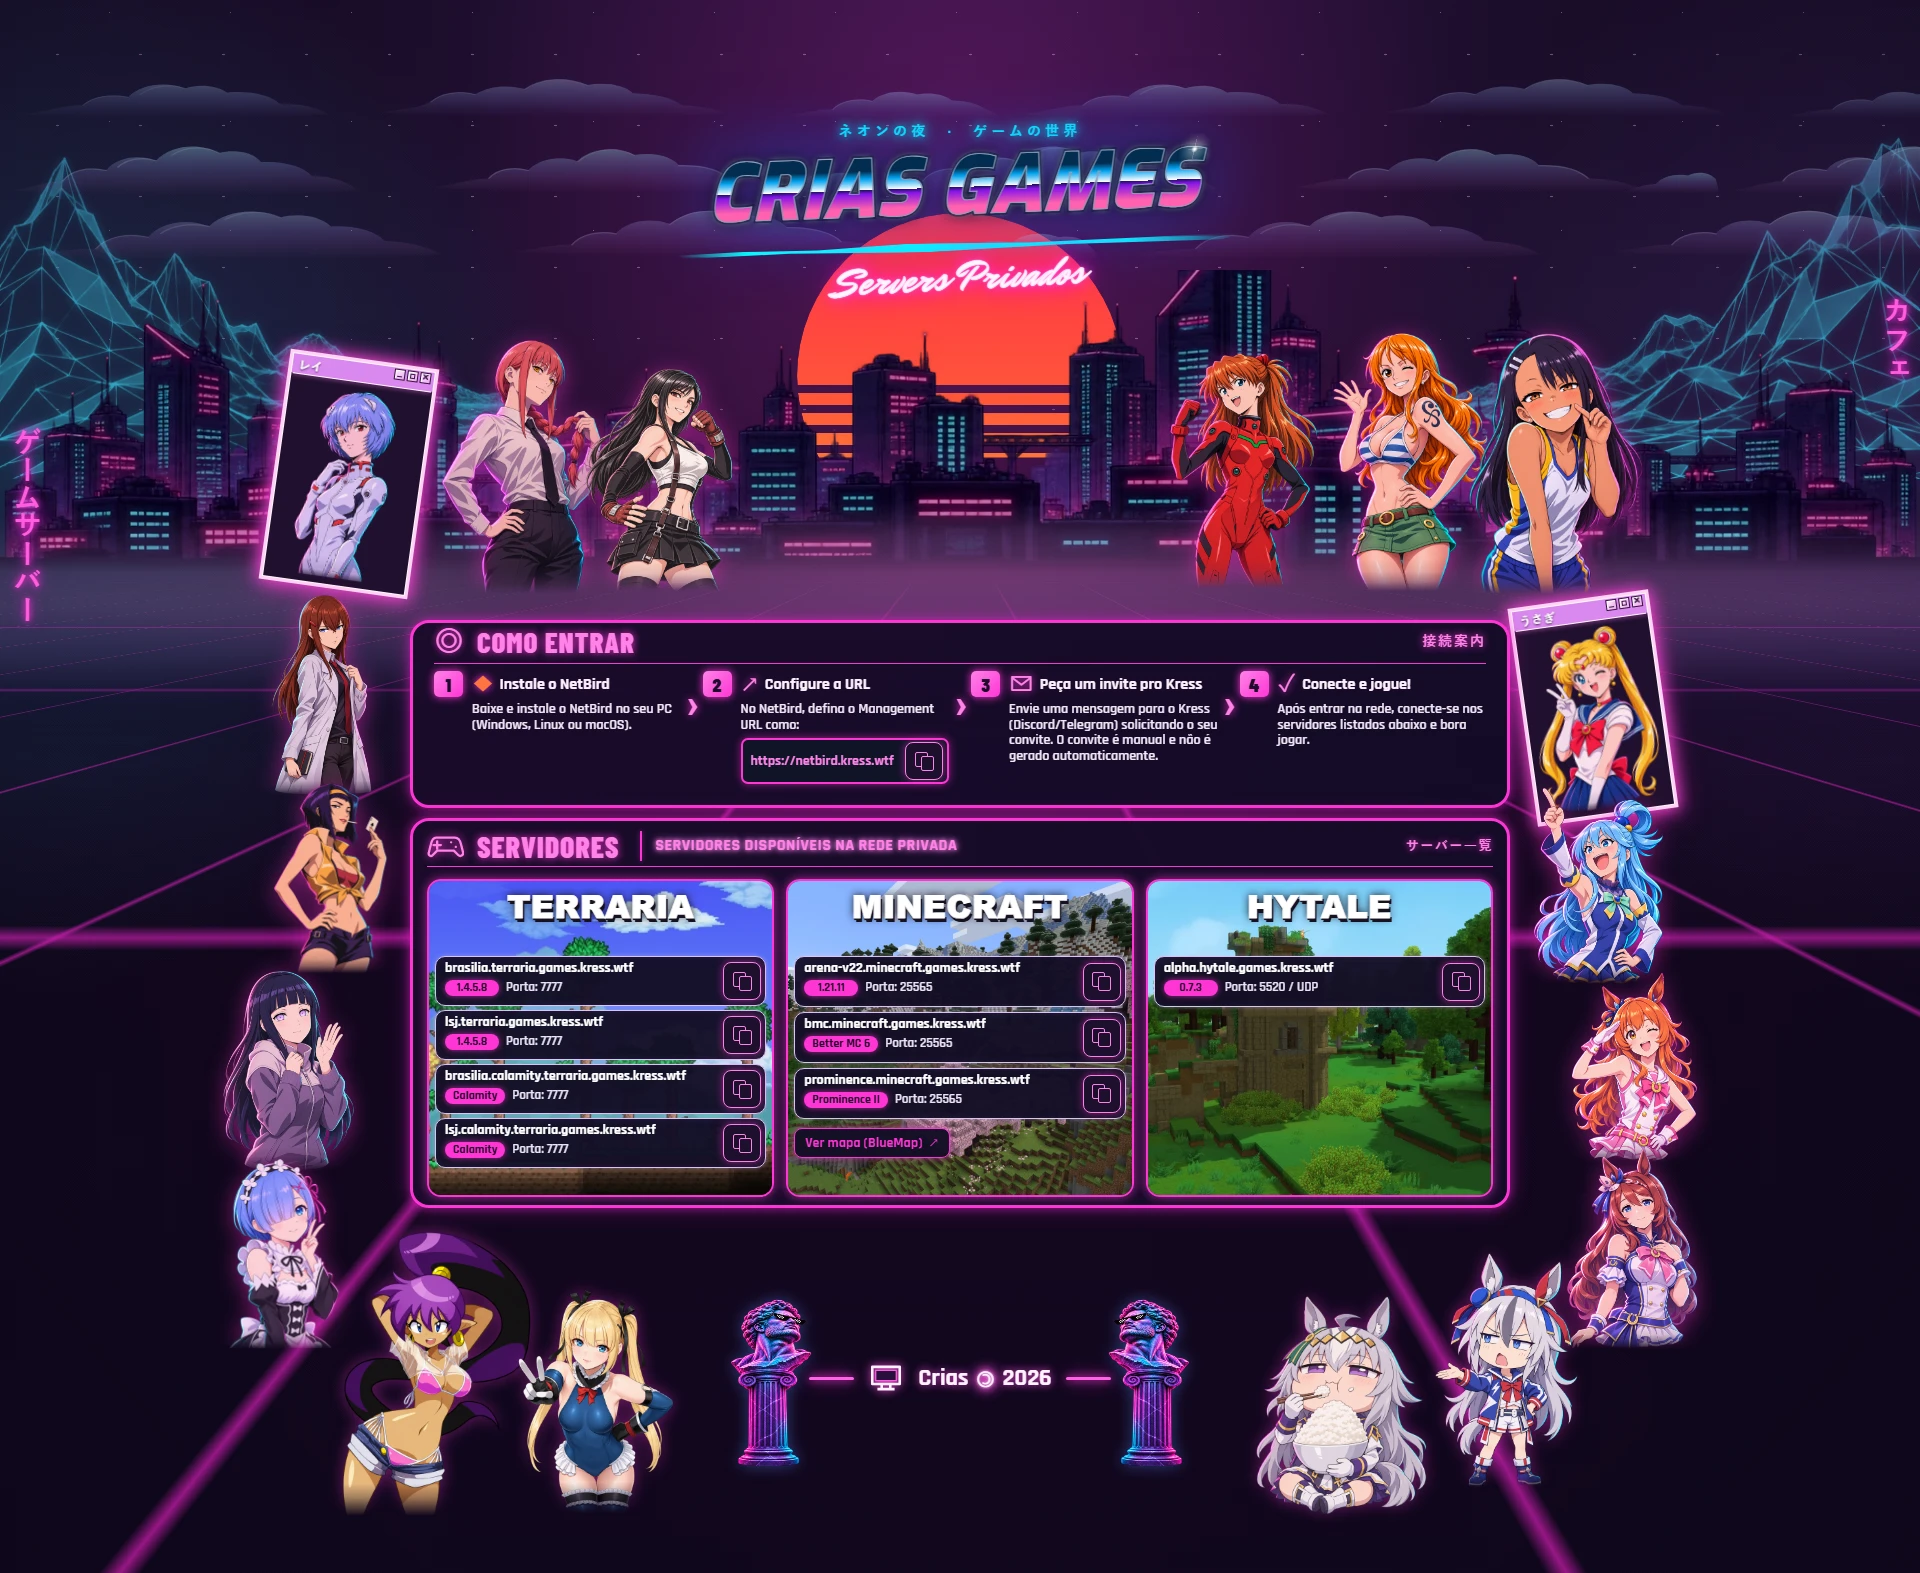
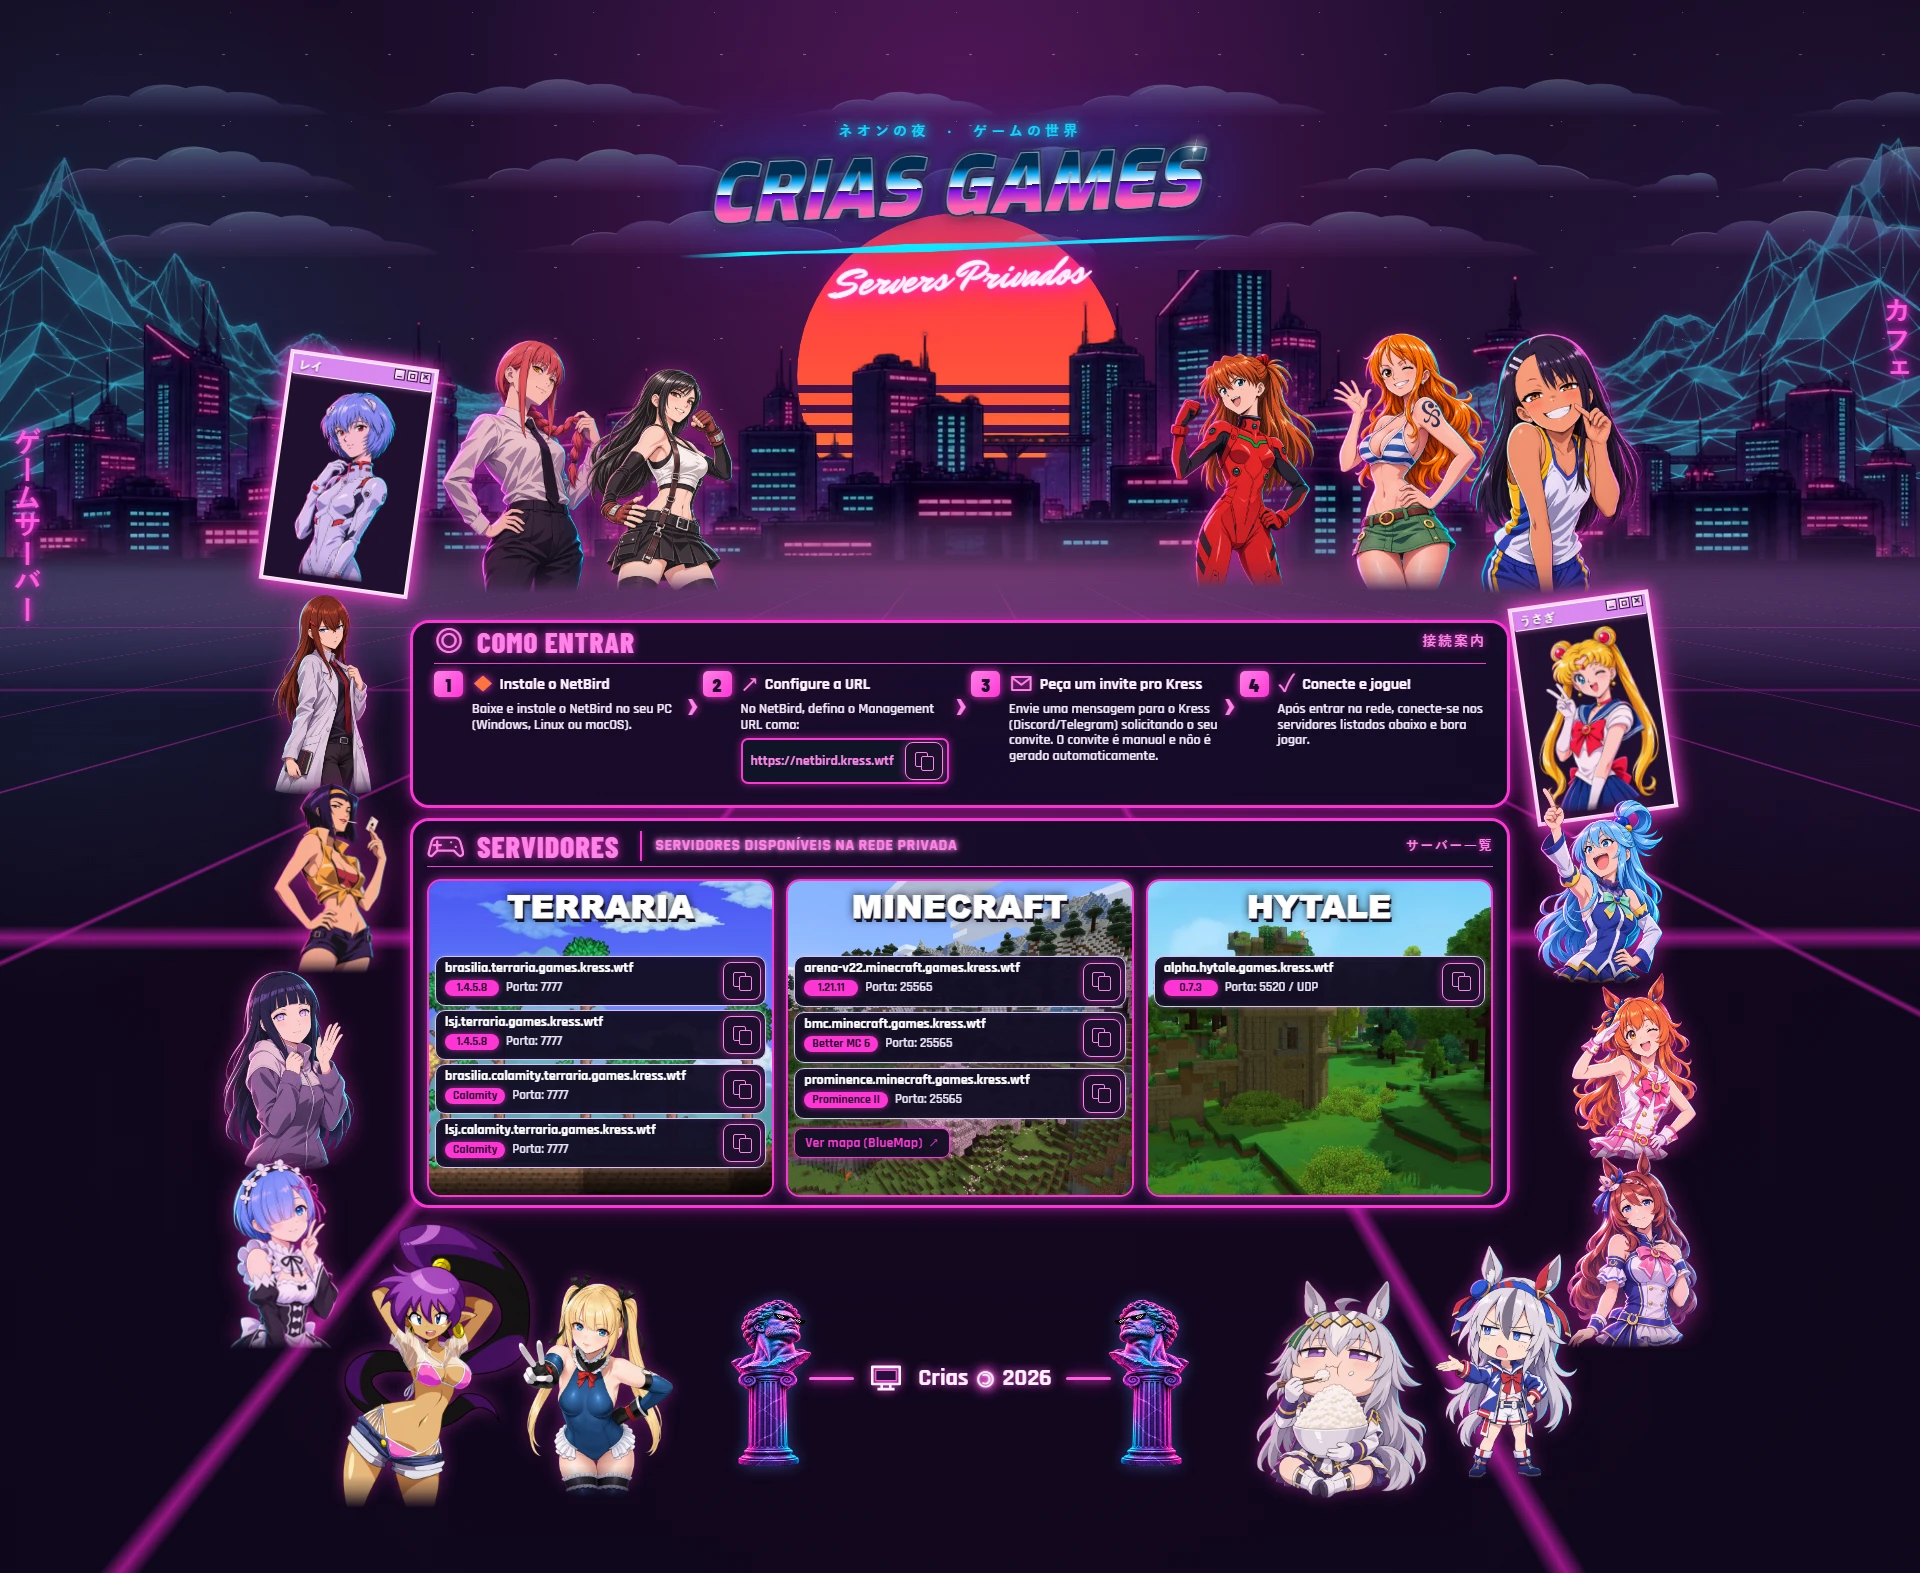
Raise footer character artwork

Changed region(s): [[0.1562, 0.7788, 0.375, 0.9657], [0.6562, 0.7788, 0.8438, 0.9657]]

diff --git a/src/assets/site.css b/src/assets/site.css
@@ -193,10 +193,10 @@ main, .site-footer { position: relative; z-index: 2; }
 .footer-collage { position:absolute; top:0; left:50%; width:min(100%,1100px); height:100%; transform:translateX(-50%); pointer-events:none; }
 .footer-signature { position:relative; top:155px; z-index:1; display:flex; justify-content:center; align-items:center; gap:14px; width:fit-content; margin-inline:auto; animation:neon-text-pulse 3s ease-in-out infinite alternate; }
 .footer-character { position:absolute; display:block; width:220px; height:auto; object-fit:contain; pointer-events:none; transform:translate(-10%,-10%); filter:drop-shadow(0 0 8px #ff35d563); animation:billboard 6.6s ease-in-out infinite alternate,portrait-neon-pulse 7.3s ease-in-out infinite; -webkit-mask-image:linear-gradient(to bottom,#000 0 81%,#000a 85%,transparent 90%); mask-image:linear-gradient(to bottom,#000 0 81%,#000a 85%,transparent 90%); }
-.footer-character--shantae { left:-5px; top:20px; width:240px; animation-delay:-2.3s; }
-.footer-character--marie { left:195px; top:66px; width:210px; animation-delay:-4.2s; -webkit-mask-image:linear-gradient(to bottom,#000 0 76%,#000a 81%,transparent 86%); mask-image:linear-gradient(to bottom,#000 0 76%,#000a 81%,transparent 86%); }
-.footer-character--oguri { right:160px; top:62px; width:220px; transform:translate(10%,-10%); animation-delay:-1.4s; }
-.footer-character--tamamo { right:4px; top:42px; width:200px; transform:translate(10%,-10%); animation-delay:-5.2s; }
+.footer-character--shantae { left:-5px; top:12px; width:240px; animation-delay:-2.3s; }
+.footer-character--marie { left:195px; top:50px; width:210px; animation-delay:-4.2s; -webkit-mask-image:linear-gradient(to bottom,#000 0 76%,#000a 81%,transparent 86%); mask-image:linear-gradient(to bottom,#000 0 76%,#000a 81%,transparent 86%); }
+.footer-character--oguri { right:160px; top:46px; width:220px; transform:translate(10%,-10%); animation-delay:-1.4s; }
+.footer-character--tamamo { right:4px; top:34px; width:200px; transform:translate(10%,-10%); animation-delay:-5.2s; }
 @media (min-width:1425px) {
   .footer-collage { --footer-character-outward:clamp(32px,calc(3.4vw - 17px),48px); }
   .footer-character--shantae { left:calc(-21px - var(--footer-character-outward)); }

diff --git a/openspec/specs/website-experience/spec.md b/openspec/specs/website-experience/spec.md
@@ -37,7 +37,7 @@ The desktop collage SHALL preserve the fourteen named reference characters in th
 - **THEN** the individual characters and bust frame the content without covering text, controls or each other's essential features
 
 ### Requirement: Footer character collage
-The footer SHALL include separate transparent illustrations of Shantae and anime Marie Rose on the left, and chibi Oguri Cap eating rice with chibi Tamamo Cross reacting on the right. On wide desktop layouts, the cumulative outward offsets SHALL be about 48–64px for Shantae, 80–96px for Marie Rose, and 64–80px for Oguri and Tamamo, preserving clear space around the centered signature, side-column portraits and each other. Their numbered masters and derivatives SHALL be preserved with recorded provenance, clear silhouettes, alpha clearance for glow and CSS bottom fades. The four new characters SHALL supplement the original fourteen, with no backgrounds or photo frames, and SHALL leave the centered footer signature and controls unobscured. Both footer bust statues SHALL remain static and mirrored around the signature, each 16px farther from the page center than before.
+The footer SHALL include separate transparent illustrations of Shantae and anime Marie Rose on the left, and chibi Oguri Cap eating rice with chibi Tamamo Cross reacting on the right. On wide desktop layouts, the cumulative outward offsets SHALL be about 48–64px for Shantae, 80–96px for Marie Rose, and 64–80px for Oguri and Tamamo, preserving clear space around the centered signature, side-column portraits and each other. In the footer collage, Shantae and Tamamo SHALL sit 8px higher, while Marie Rose and Oguri SHALL sit 16px higher than their previous positions. Their numbered masters and derivatives SHALL be preserved with recorded provenance, clear silhouettes, alpha clearance for glow and CSS bottom fades. The four new characters SHALL supplement the original fourteen, with no backgrounds or photo frames, and SHALL leave the centered footer signature and controls unobscured. Both footer bust statues SHALL remain static and mirrored around the signature, each 16px farther from the page center than before.
 
 #### Scenario: Footer character collage
 - **WHEN** a visitor scrolls to the bottom of the desktop page

diff --git a/openspec/changes/build-mockup-faithful-site/specs/website-experience/spec.md b/openspec/changes/build-mockup-faithful-site/specs/website-experience/spec.md
@@ -162,7 +162,7 @@ On desktop, the six upper portraits SHALL be positioned by their visible artwork
 
 
 ### Requirement: Footer character collage
-The footer SHALL also include four independent transparent character illustrations: Shantae, anime Marie Rose, chibi Oguri Cap eating rice, and chibi Tamamo Cross reacting to her. Shantae and Marie Rose SHALL occupy the left footer spaces; Oguri and Tamamo SHALL form the food joke on the right. On wide desktop layouts, all four characters SHALL move outward from the centered signature on top of the earlier offsets: Shantae gains another 16px, Marie Rose another 48px, Oguri another 32px, and Tamamo another 32px, staying clear of side-column portraits and each other. These assets SHALL retain numbered masters and derivatives, complete silhouettes, glow clearance and CSS bottom fades without photo backgrounds, and SHALL NOT obscure the footer signature or actionable content.
+The footer SHALL also include four independent transparent character illustrations: Shantae, anime Marie Rose, chibi Oguri Cap eating rice, and chibi Tamamo Cross reacting to her. Shantae and Marie Rose SHALL occupy the left footer spaces; Oguri and Tamamo SHALL form the food joke on the right. On wide desktop layouts, all four characters SHALL move outward from the centered signature on top of the earlier offsets: Shantae gains another 16px, Marie Rose another 48px, Oguri another 32px, and Tamamo another 32px, staying clear of side-column portraits and each other. Vertically, Shantae and Tamamo SHALL move up 8px and Marie Rose and Oguri SHALL move up 16px from the previous footer layout. These assets SHALL retain numbered masters and derivatives, complete silhouettes, glow clearance and CSS bottom fades without photo backgrounds, and SHALL NOT obscure the footer signature or actionable content.
 
 #### Scenario: Footer character collage
 - **WHEN** the full desktop page is scrolled to its footer

diff --git a/docs/review/visual-review.md b/docs/review/visual-review.md
@@ -183,6 +183,6 @@ Replaced the separate mountain artwork with one generated transparent panorama, 
 
 The cloud layers now have explicit depth and speed: the 75s far layer is behind the mountains; the 47s middle and 31s near layers pass in front; the skyline remains above all three. All cloud strips loop toward the left and stay within the sky.
 
-The footer characters moved outward again: Shantae by 16px, Marie Rose by 48px, Oguri by 32px and Tamamo by 32px. Each bust statue moved 16px farther from page center and has no motion animation. At 1448px, character x-positions are 97, 268, 980 and 1154px; statue x-positions are 463 and 840px. At 1920px, character x-positions are 317, 488, 1232 and 1406px; statue x-positions are 699 and 1076px. The subtitle renders exactly as `Servers Privados`.
+The footer characters moved outward again: Shantae by 16px, Marie Rose by 48px, Oguri by 32px and Tamamo by 32px. Shantae/Tamamo then moved up 8px and Marie/Oguri 16px. Each bust statue moved 16px farther from page center and has no motion animation. At 1448px, character positions (x, y) are (97, 1188), (268, 1230), (980, 1225) and (1154, 1216)px; statue x-positions are 463 and 840px. At 1920px, character positions (x, y) are (317, 1184), (488, 1227), (1232, 1221) and (1406, 1212)px; statue x-positions are 699 and 1076px. The subtitle renders exactly as `Servers Privados`.
 
 Full-page desktop captures `screenshots/mountains-footer-1448-2026-11-10.webp` and `screenshots/mountains-footer-1920-2026-11-10.webp` were visually inspected. The production build reported eight server records. Browser review at 1448 × 1086 and 1920 × 1080 found no horizontal overflow, broken images, failed requests or page errors. Preview remains on port 4173.

diff --git a/openspec/changes/build-mockup-faithful-site/design.md b/openspec/changes/build-mockup-faithful-site/design.md
@@ -131,7 +131,7 @@ Use the right column as the reference for vertical rhythm. Raise the first three
 
 ### 15. Footer character spacing
 
-Move the four footer illustrations farther outward on wide desktops, on top of the earlier offsets: Shantae gains another 16px, Marie Rose another 48px, Oguri another 32px and Tamamo another 32px. This produces cumulative outward offsets of about 48–64px for Shantae, 80–96px for Marie, and 64–80px for Oguri/Tamamo across 1448–1920px. Move each footer statue 16px farther from page center and keep both static. Check that the outer illustrations do not crowd the lower side-column portraits or clip their glow.
+Move the four footer illustrations farther outward on wide desktops, on top of the earlier offsets: Shantae gains another 16px, Marie Rose another 48px, Oguri another 32px and Tamamo another 32px. This produces cumulative outward offsets of about 48–64px for Shantae, 80–96px for Marie, and 64–80px for Oguri/Tamamo across 1448–1920px. Move each footer statue 16px farther from page center and keep both static. Then raise Shantae and Tamamo by 8px and Marie Rose and Oguri by 16px. Check that the outer illustrations do not crowd the lower side-column portraits or clip their glow.
 
 ### 16. Mountain valley and subtitle casing
 

diff --git a/openspec/changes/build-mockup-faithful-site/tasks.md b/openspec/changes/build-mockup-faithful-site/tasks.md
@@ -100,3 +100,4 @@ Implement in dependency order. Read both persistent specs, both change specs, `d
 - [x] 8.23 Change the rendered subtitle to the exact title case `Servers Privados` and retain its cursive neon treatment. Confirm exact visible casing in desktop captures; run the build.
 - [x] 8.24 Layer the slow far clouds behind the mountains and the faster mid/near cloud layers in front of them; keep all clouds behind the city and inside the sky. Verify the z-order and leftward parallax at desktop widths; run the build.
 - [x] 8.25 Keep both footer bust statues completely static and move them 16px farther from page center while preserving their mirrored composition. Inspect full-page desktop captures.
+- [x] 8.26 Raise Shantae and Tamamo 8px, and Marie Rose and Oguri 16px from their current footer positions. Inspect full-page desktop captures at 1448px and 1920px; run the build.
